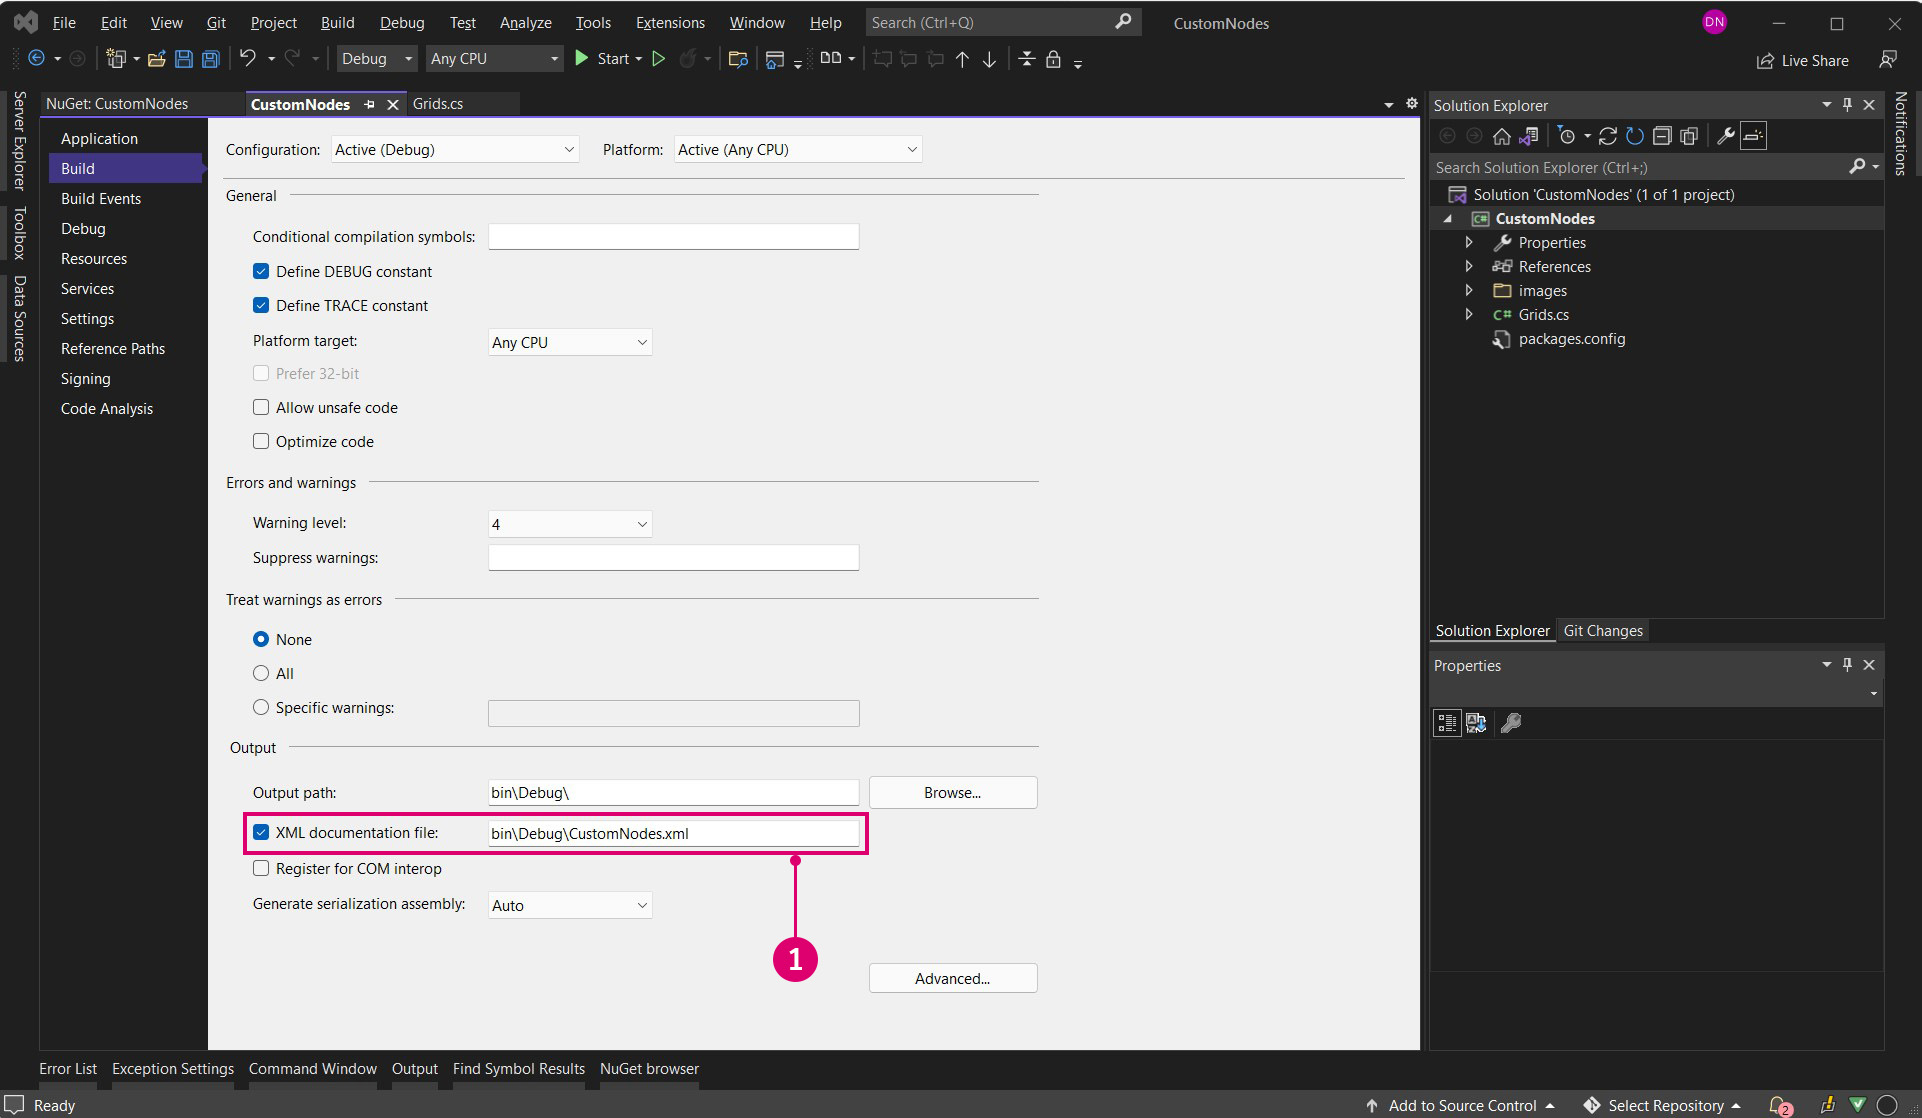
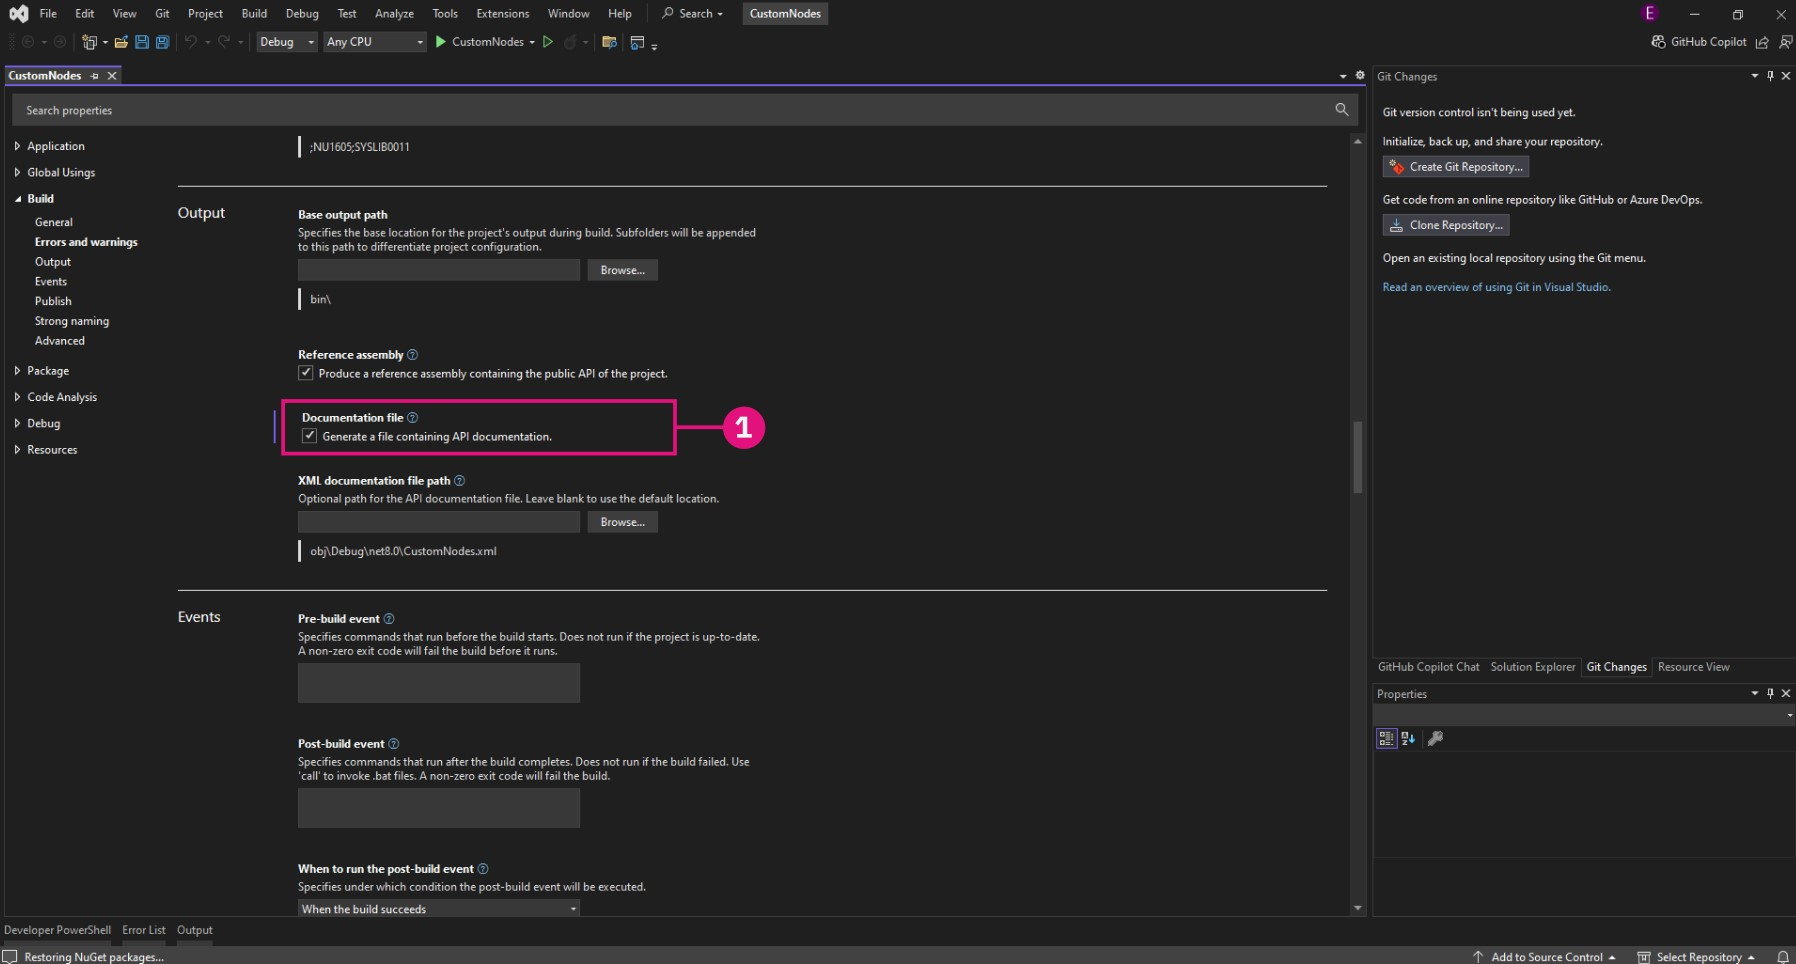
Updating XML Documentation File Visual Studio Location and Image (#38)
* Transferring the "Setting up a shared location for Packages in an Office" from dynamo Wiki to Primer

* Editing File paths to remove specific number Dynamo versions and replacing them with [Dynamo Version]

* Updating outdated Visual Studio XML file location and image

diff --git a/11_developer_primer/3_developing_for_dynamo/4-going-further-with-zero-touch.md b/11_developer_primer/3_developing_for_dynamo/4-going-further-with-zero-touch.md
@@ -88,7 +88,7 @@ It is best practice to add documentation to Dynamo nodes that describe the node'
   * For example: `/// Documentation text and XML goes here`
 * After the three slashes, create XML tags above methods that Dynamo will read when importing the .dll
   * For example: `/// <summary>...</summary>`
-* Enable XML documentation in Visual Studio by selecting `Project > Project Properties > Build` and checking `XML documentation file`
+* Enable XML documentation in Visual Studio by selecting `Project > [Project] Properties > Build > Output` and checking `Documentation file`
 
 ![Generating an XML file](images/vs-xml.jpg)
 
